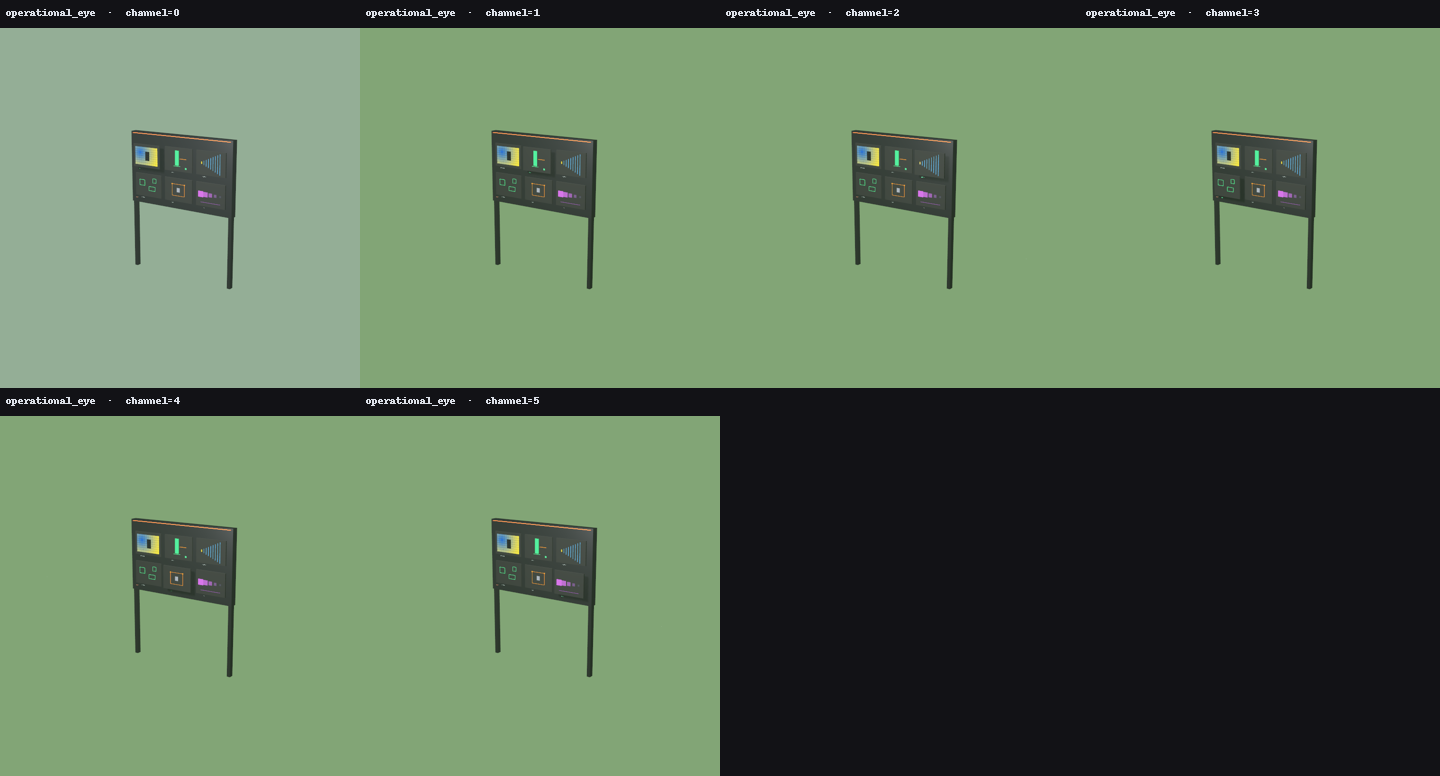
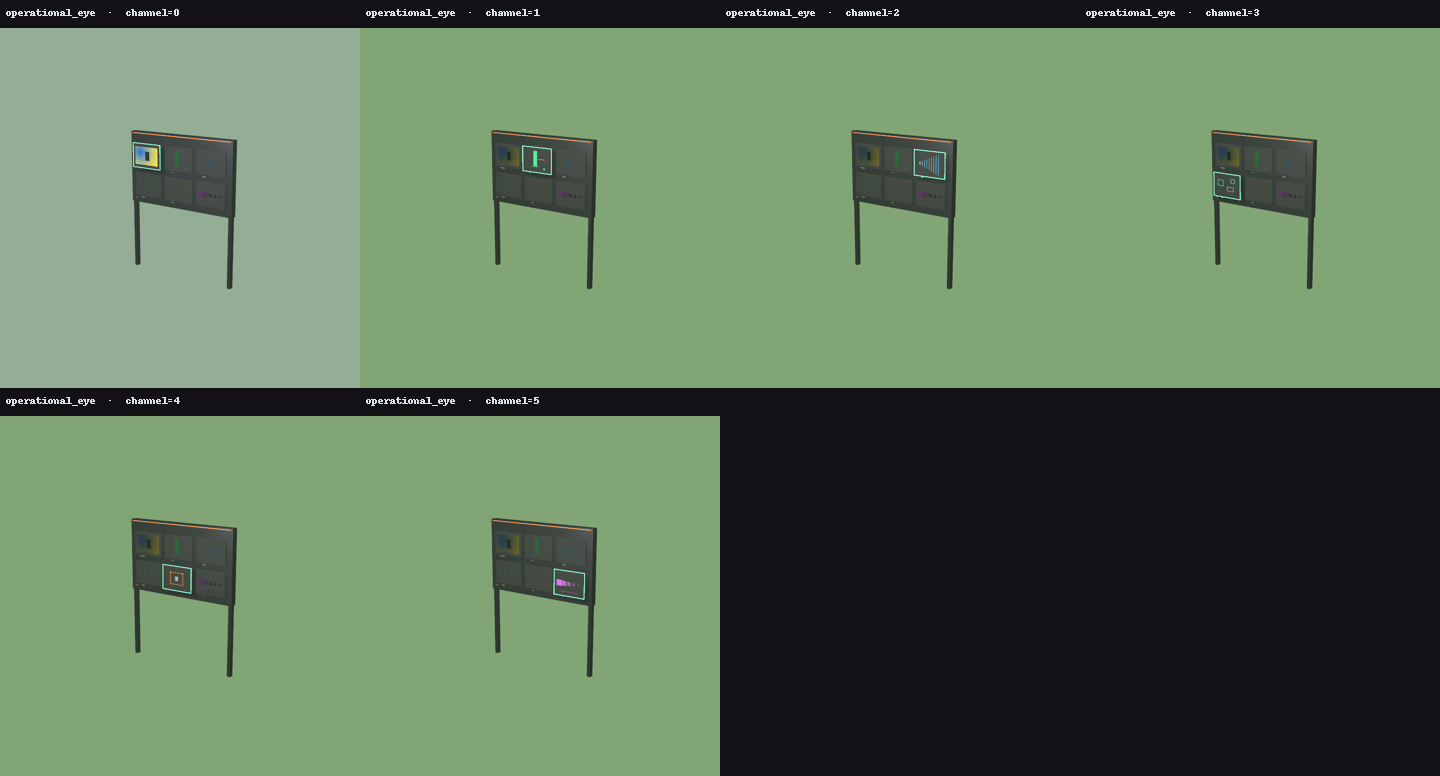
feat(dna): round two — a critic that asks whether each axis actually bites
The sweep publishes variants. It never asks whether they DIFFER. info_board taught
this once (six identical tiles filed as a finished experiment) and it was written off
as a time-domain problem, but the fault is general: any axis can be decoration, and a
sweep cannot tell. tools/artifact_dna_critic.py reads the rendered variants back and
measures the pairs that differ in one axis alone.

MY FIRST METRIC WAS WRONG AND ITS OWN OUTPUT SAID SO. Whole-frame mean pixel change
produced six "weak" verdicts landing within 0.2% of each other — 1.77, 1.78, 1.81,
1.82, 1.85, 1.95. Six independent design failures do not cluster like that. It was
measuring FRAMING: any axis whose change is local gets diluted to nothing by a wide
shot. So it now reports two numbers, frame and FOCUS (the mean over the most-changed
5% of pixels), and judges on focus — because an inert knob is flat everywhere
including its hottest pixels, while a local one is decisive exactly where it acts.

With that, two axes came back genuinely INERT and both were real:

  operational_eye.channel      focus 2.6% — foregrounding a channel only pushed one
    small screen 3.5 cm forward. A patch bay does not whisper which feed is up. The
    live channel now gets a lit surround and the rest drop to standby dim (they keep
    running: they are operational images, not decoration that switches off).
    2.6% -> 4.9%

  poor_image_gate.rich_samples focus 1.9% — 14 and 26 subdivisions both read as fine,
[…]

diff --git a/tools/artifact_dna_critic.py b/tools/artifact_dna_critic.py
@@ -1,0 +1,178 @@
+#!/usr/bin/env python3
+"""
+artifact_dna_critic.py — round two: does each declared axis actually BITE?
+
+Stage 2 sweeps an artifact's axes and publishes the variants. It never asks whether
+the variants DIFFER. info_board taught this the hard way: six tiles, all identical,
+filed as a finished experiment. That was diagnosed as a time-domain problem, but the
+real fault is general — ANY axis can be decoration, and a sweep cannot tell.
+
+So this reads the rendered variants back and measures them. For each axis it compares
+the pairs that differ in that axis ALONE and reports the mean pixel change. An axis
+whose renders are identical is not a parameter, it is a label on a knob that is not
+connected to anything.
+
+Two numbers per axis, because one was not enough. FRAME is the mean change over the
+whole image; FOCUS is the mean over the most-changed 5% of pixels.
+
+  focus < 3%    INERT   flat even at its hottest: the knob is decoration
+  focus < 12%   WEAK    it moves, but barely
+  else, frame < 2%      LOCAL — decisive where it happens, diluted by a wide shot
+  otherwise     BITES
+
+Usage:
+  python tools/artifact_dna_critic.py                 # judge the readymades gallery
+  python tools/artifact_dna_critic.py --gallery=props-dna-gallery
+  python tools/artifact_dna_critic.py --json=doc/reports/dna_bite.json
+"""
+from __future__ import annotations
+import json
+import sys
+from collections import defaultdict
+from pathlib import Path
+
+REPO = Path(__file__).resolve().parents[1]
+ENC = REPO.parent / "ada_encyclopedia" / "public"
+
+INERT = 0.005          # frame-wide floor, kept for reporting
+WEAK = 0.020
+INERT_FOCUS = 0.030    # even the hottest 5% barely moved: the knob is decoration
+WEAK_FOCUS = 0.120
+
+
+def load_img(p: Path):
+    from PIL import Image
+    im = Image.open(p).convert("L").resize((160, 160))
+    return list(im.getdata())
+
+
+def diff(a: list[int], b: list[int]) -> tuple[float, float]:
+    """Returns (frame, focus), both normalised 0..1.
+
+    FRAME is the mean change over the whole image. FOCUS is the mean over the most-
+    changed 5% of pixels. Both are needed, and the first version shipped only the
+    frame — which produced six 'weak' verdicts landing within 0.2% of each other, a
+    tell that the metric was measuring framing rather than the artifacts. An axis that
+    moves one small screen in a wide shot is diluted to nothing by a frame-wide mean;
+    it is not weak, it is LOCAL. Focus separates 'small but decisive' from 'nothing
+    happened', because an inert axis is flat everywhere including its hottest pixels.
+    """
+    if not a or len(a) != len(b):
+        return 0.0, 0.0
+    d = [abs(x - y) for x, y in zip(a, b)]
+    frame = sum(d) / (255.0 * len(d))
+    d.sort(reverse=True)
+    top = max(1, len(d) // 20)
+    focus = sum(d[:top]) / (255.0 * top)
+    return frame, focus
+
+
+def main() -> int:
+    gallery = "readymades-dna"
+    out_json = None
+    for a in sys.argv[1:]:
+        if a.startswith("--gallery="):
+            gallery = a.split("=", 1)[1]
+        if a.startswith("--json="):
+            out_json = REPO / a.split("=", 1)[1]
+
+    mdir = ENC / gallery
+    mf = mdir / "manifest.json"
+    if not mf.exists():
+        print(f"no manifest at {mf}")
+        return 1
+    entries = json.loads(mf.read_text(encoding="utf-8")).get("entries", [])
+
+    by_prop: dict[str, list[dict]] = defaultdict(list)
+    for e in entries:
+        by_prop[str(e.get("prop", "?"))].append(e)
+
+    cache: dict[str, list[int]] = {}
+    report: list[dict] = []
+    print(f"{'artifact':24} {'axis':22} {'frame':>7} {'focus':>8}  verdict")
+    print("-" * 74)
+
+    for prop, es in by_prop.items():
+        # every axis mentioned by this artifact's variants
+        axes = sorted({k for e in es for k in (e.get("dna") or {}).keys()})
+        for axis in axes:
+            pairs: list[tuple[dict, dict]] = []
+            for i in range(len(es)):
+                for j in range(i + 1, len(es)):
+                    da = es[i].get("dna") or {}
+                    db = es[j].get("dna") or {}
+                    if da.get(axis) == db.get(axis):
+                        continue
+                    # differ in THIS axis only — otherwise the change is confounded
+                    others = set(da) | set(db)
+                    others.discard(axis)
+                    if all(da.get(k) == db.get(k) for k in others):
+                        pairs.append((es[i], es[j]))
+            if not pairs:
+                continue
+            fr: list[float] = []
+            fo: list[float] = []
+            for x, y in pairs:
+                for e in (x, y):
+                    fid = str(e["id"])
+                    if fid not in cache:
+                        p = mdir / f"{fid}.png"
+                        cache[fid] = load_img(p) if p.exists() else []
+                f1, f2 = diff(cache[str(x["id"])], cache[str(y["id"])])
+                fr.append(f1)
+                fo.append(f2)
+            frame = sum(fr) / len(fr)
+            focus = sum(fo) / len(fo)
+            # Judged on FOCUS. A knob that is connected to something changes its hottest
+            # pixels a lot even when the frame barely moves; a knob connected to nothing
+            # is flat everywhere.
+            if focus < INERT_FOCUS:
+                verdict = "INERT"
+            elif focus < WEAK_FOCUS:
+                verdict = "WEAK"
+            elif frame < WEAK:
+                verdict = "local"
+            else:
+                verdict = "bites"
+            print(f"{prop:24} {axis:22} {frame*100:6.2f}% {focus*100:7.2f}%  {verdict}")
+            report.append({"artifact": prop, "axis": axis, "frame": round(frame, 5),
+                           "focus": round(focus, 5), "verdict": verdict,
+                           "pairs": len(pairs)})
+
+    inert = [r for r in report if r["verdict"] == "INERT"]
+    weak = [r for r in report if r["verdict"] == "WEAK"]
+    print("-" * 74)
+    local = [r for r in report if r["verdict"] == "local"]
+    bites = [r for r in report if r["verdict"] == "bites"]
+    print(f"{len(report)} axes measured · {len(bites)} bite · {len(local)} local"
+          f" · {len(weak)} weak · {len(inert)} inert")
+    if inert:
+        print("\nINERT — these knobs are not connected to anything you can see:")
+        for r in inert:
+            print(f"  {r['artifact']}.{r['axis']}")
+    if local:
+        print("\nLOCAL — decisive where it happens, diluted by a wide frame."
+              " These want a tighter capture, not a redesign:")
+        for r in local:
+            print(f"  {r['artifact']}.{r['axis']}"
+                  f"  frame {r['frame']*100:.2f}% / focus {r['focus']*100:.1f}%")
+    if weak:
+        print("\nWEAK — moves, but barely, even at its hottest pixels:")
+        for r in weak:
+            print(f"  {r['artifact']}.{r['axis']}  (focus {r['focus']*100:.1f}%)")
+    if out_json:
+        out_json.parent.mkdir(parents=True, exist_ok=True)
+        out_json.write_text(json.dumps({
+            "_note": "Per-axis bite: mean pixel change between variants differing in that "
+                     "axis alone. An axis whose renders are identical is decoration.",
+            "gallery": gallery,
+            "thresholds": {"inert_focus": INERT_FOCUS, "weak_focus": WEAK_FOCUS,
+                           "frame_local_ceiling": WEAK},
+            "axes": report,
+        }, indent=1), encoding="utf-8")
+        print(f"\nwrote {out_json.relative_to(REPO)}")
+    return 0
+
+
+if __name__ == "__main__":
+    raise SystemExit(main())

diff --git a/tools/build_readymades_gallery.py b/tools/build_readymades_gallery.py
@@ -103,8 +103,22 @@ def main() -> int:
 
     reg = registry()
     OUT.mkdir(parents=True, exist_ok=True)
+
+    # --only REBUILDS A ROW, it does not rebuild the gallery. Writing a fresh manifest
+    # from just the swept artifacts silently dropped the other 38 variants the first
+    # time this ran — a partial rebuild that looks like a complete one is the same
+    # failure mode as a sweep of identical tiles.
     entries: list[dict] = []
-    idx = 0
+    if only:
+        mf_old = OUT / "manifest.json"
+        if mf_old.exists():
+            try:
+                kept = json.loads(mf_old.read_text(encoding="utf-8")).get("entries", [])
+                entries = [e for e in kept if str(e.get("prop")) not in only]
+                print(f"  (keeping {len(entries)} variant(s) from artifacts not rebuilt)")
+            except Exception:
+                entries = []
+    idx = len(entries)
     for token, artist, line in SET:
         if only and token not in only:
             continue
@@ -134,6 +148,11 @@ def main() -> int:
             })
             idx += 1
         print(f"  {token}: {len(frames)} variant(s)")
+
+    order = {tok: i for i, (tok, _a, _l) in enumerate(SET)}
+    entries.sort(key=lambda e: (order.get(str(e.get("prop")), 99), str(e.get("id"))))
+    for i, e in enumerate(entries):
+        e["index"] = i
 
     manifest = {
         "version": 1,
